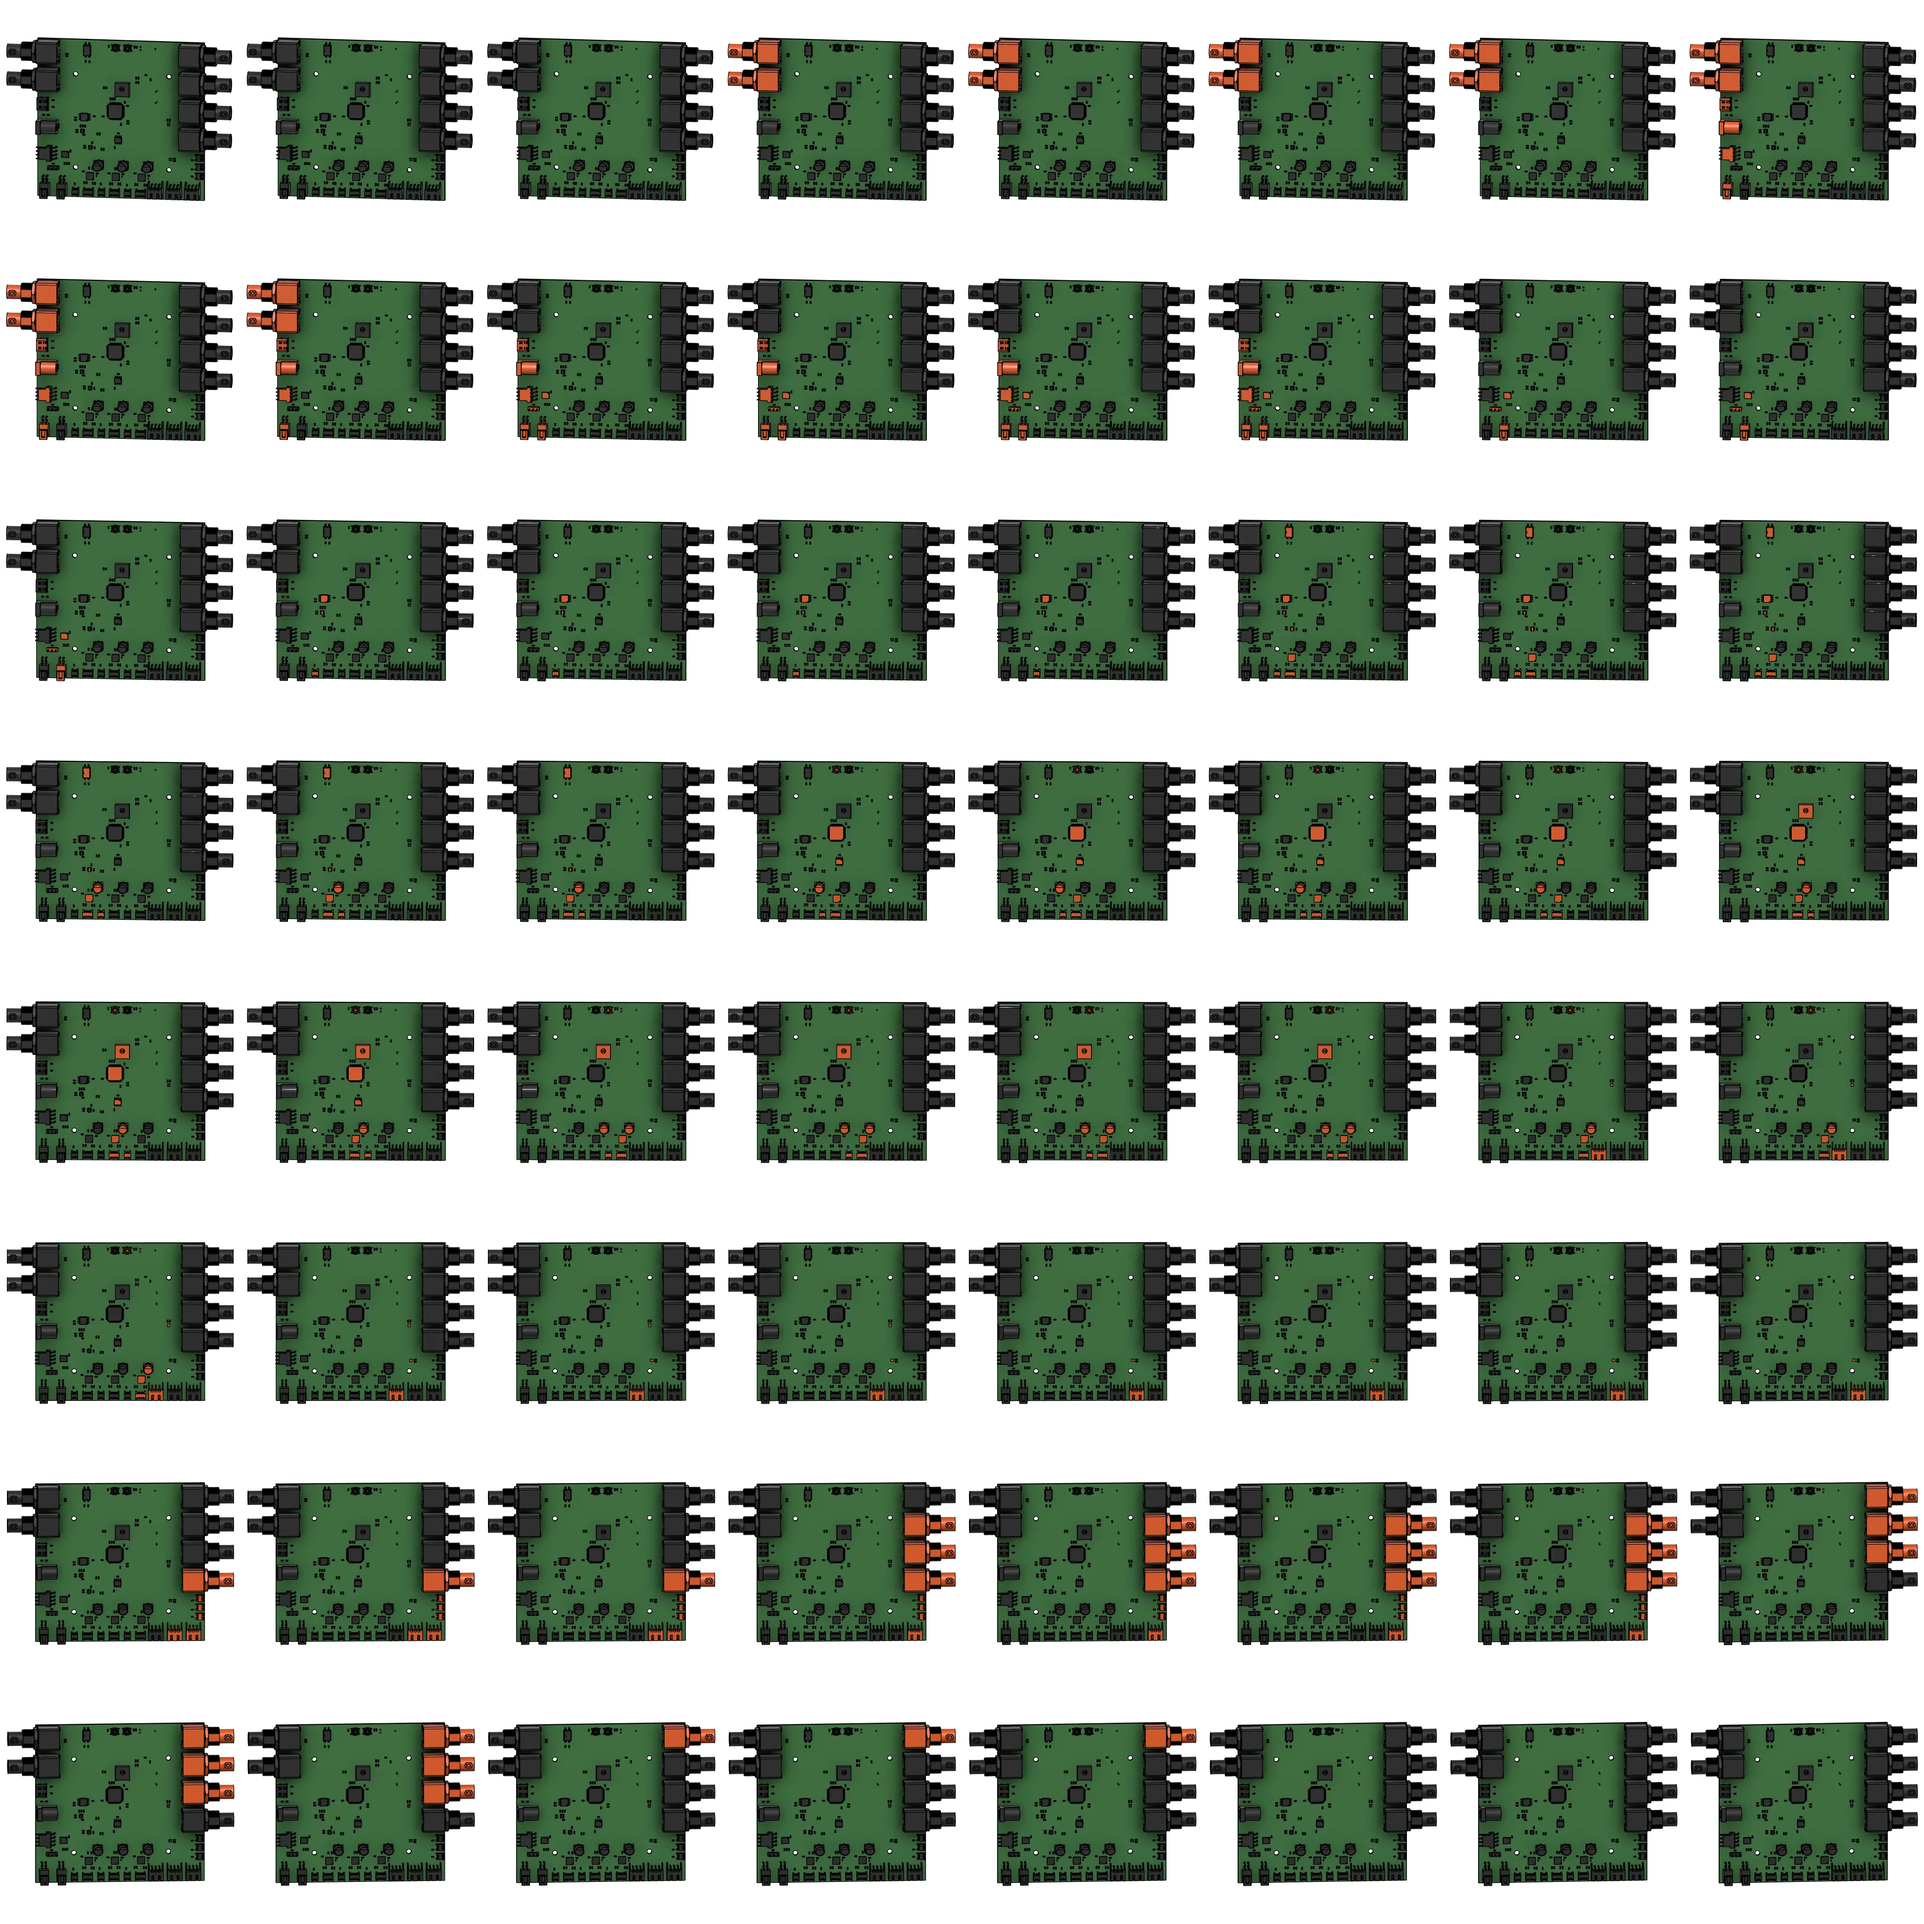
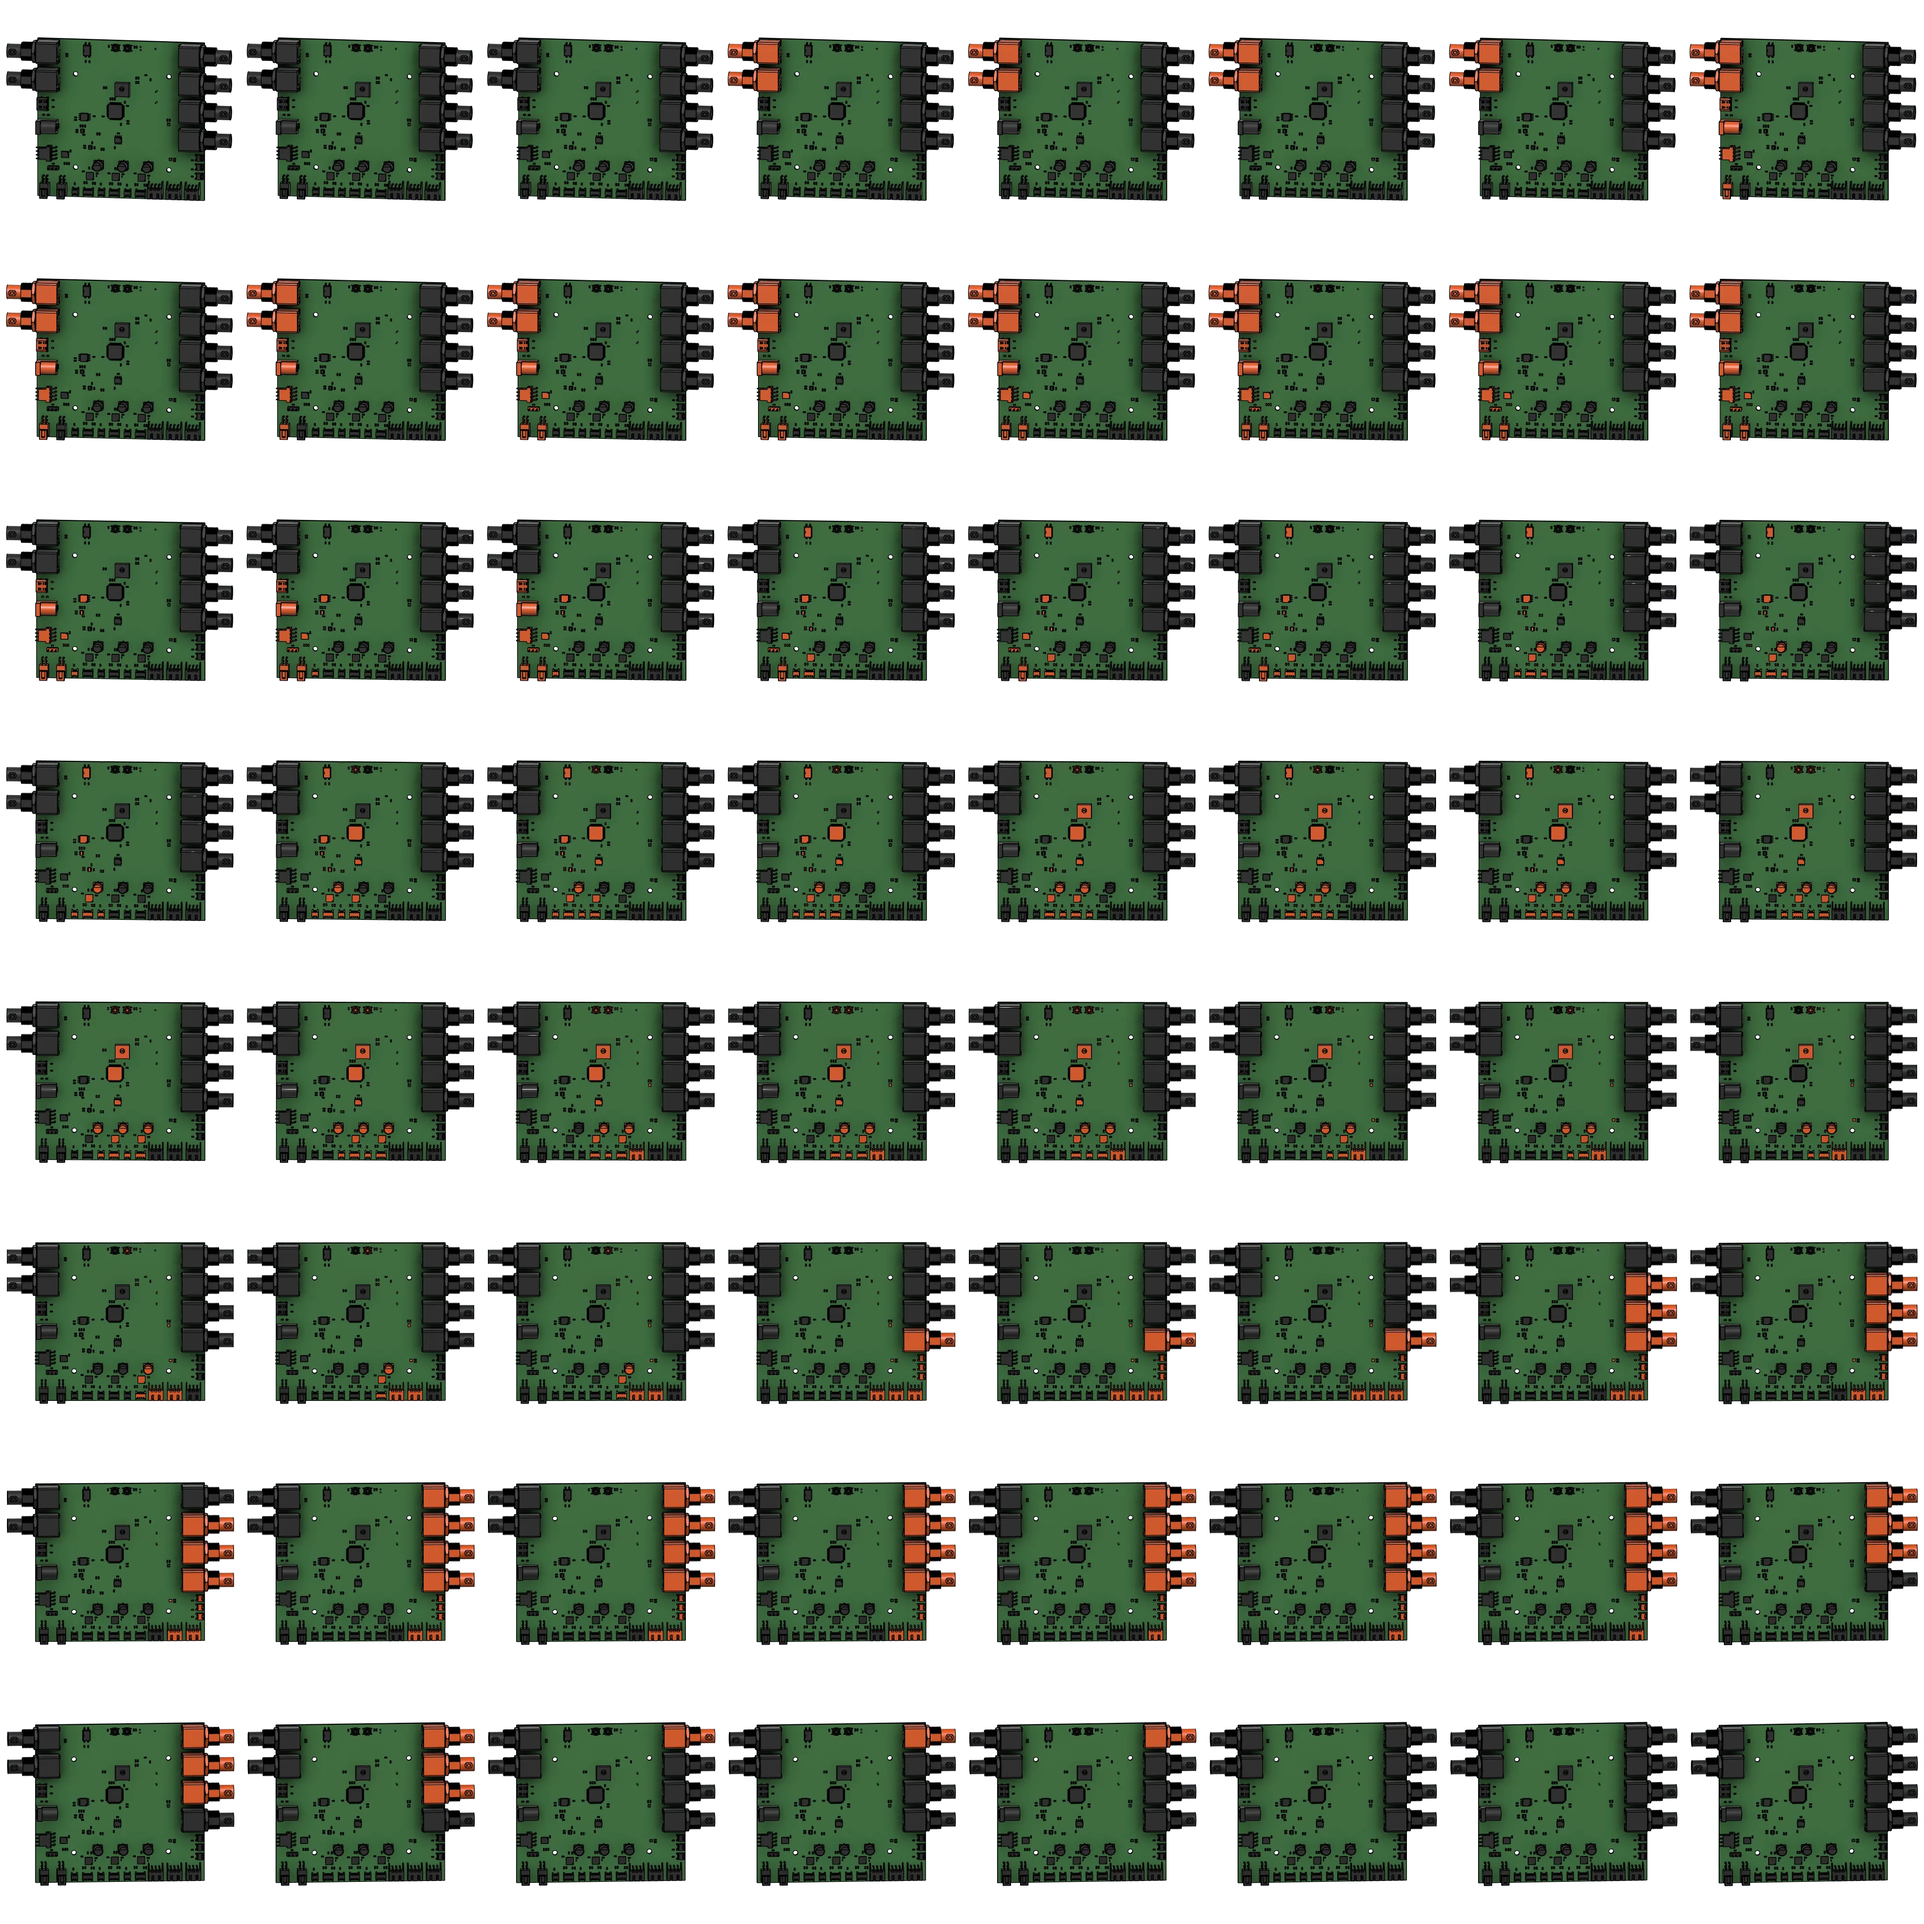
Widen the board scan so it reads at display size
Two groups of sixteen lit at once was a few stray orange pixels per frame
at the 300px the figure actually renders at. Four of sixteen lights about a
quarter of the board, so the connectors get a clear moment and the sweep
reads as deliberate rather than as noise.

Caught by composing the shipped sprites at their real display width on both
theme plates, which is the only way to judge this: the same frames look
fine at full resolution.

Fusion restored and audited again: 0 residual, 0 visibility mismatches, 0
appearance mismatches.

diff --git a/docs/fusion-animation-pipeline.md b/docs/fusion-animation-pipeline.md
@@ -617,11 +617,17 @@ green. Cluster the remaining 233 by XY bbox gap <= 0.12 cm, which recovers 85
 real components, sort clusters by centre X, and pack them into 16 sequential
 groups of roughly equal body count.
 
-A two-group band that lights and goes dark behind it reads as a scan and,
+A travelling band that lights and goes dark behind it reads as a scan and,
 unlike a cumulative fill, ends on the same dark board the poster shows. Set
 only the changed bodies each frame (233 writes across the run, not 15,000). A
 +/-8 degree turntable keeps consecutive frames from being identical during a
 group's dwell.
+
+Band width matters more than it sounds. Two groups of sixteen lit at a time was
+invisible at the 300 px the figure actually displays at - a few stray orange
+pixels per frame. **Four of sixteen** lights about a quarter of the board, so
+the big connectors get a clear moment and the sweep reads as deliberate. Judge
+this at display size, never on a full-resolution frame.
 
 ### Verify sprites offline; the preview pane cannot be trusted for timing
 
